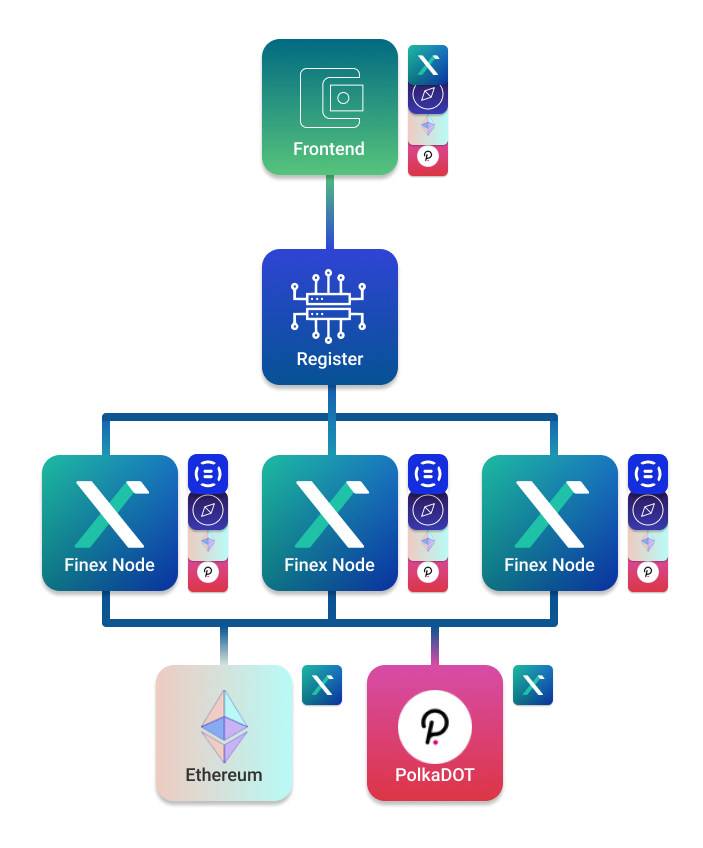
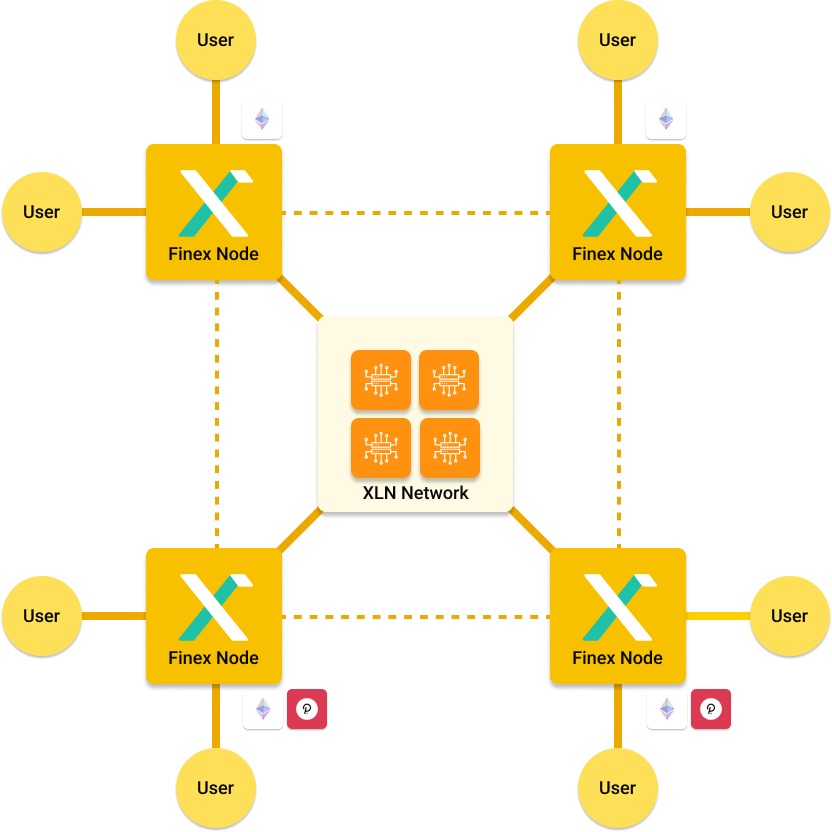
Polish after review (01.10) (#77)
* resize section main images to 65% on resolution >426 <996

* replace Architecture image

* add Linkedin links to headliner profiles

* improve code readability a bit

* remove underline from navbar Openware logo

* fix icon, fix roadmap padding

* rezise main images to 600px on tablet device

* update content text according to the latest Figma design

* fix vision link in footer

diff --git a/src/components/Team/members.js b/src/components/Team/members.js
@@ -1,6 +1,7 @@
 import React from 'react';
-import Instagram from './socials/Instagram';
-import Twitter from './socials/Twitter';
+import useBaseUrl from '@docusaurus/useBaseUrl';
+
+const LinkedinIcon = () => <img src={useBaseUrl('/img/icons/linkedin-rounded-grey.svg')} />;
 
 export const MEMBERS = [
     {
@@ -139,40 +140,39 @@ export const MEMBERS = [
 
 export const TEAM_HEADLINERS = [
     {
-        name: "Alexis Yellow",
+        name: "Alexis Sirkia",
         position: "Executive Chairman",
         description:
-            "Amet minim mollit non deserunt ullamco est sit aliqua dolor do amet sint. Velit officia consequat duis enim velit mollit. Exercitation veniam consequat sunt nostrud amet. Velit officia consequat duis enim velit mollit. Exercitation veniam consequat sunt nostrud amet.",
+            "Alexis is a strategist, innovator, engineer, and brilliant mentor with extensive result-driven project handling experience - from launching rockets to kickstarting flourishing business venues.",
         photo: "Alexis.jpg",
         socials: [
-            { img: <Twitter />, link: "https://twitter.com/AlexisYellow" },
+            { img: <LinkedinIcon />, link: "https://www.linkedin.com/in/sirkia/" },
         ],
     },
     {
         name: "Louis Bellet",
         position: "CEO",
         description:
-            "Amet minim mollit non deserunt ullamco est sit aliqua dolor do amet sint. Velit officia consequat duis enim velit mollit. Exercitation veniam consequat sunt nostrud amet. Velit officia consequat duis enim velit mollit. Exercitation veniam consequat sunt nostrud amet.",
+            "Louis is a genius system architect, avid entrepreneur, and experienced leader of IT projects from startup to enterprise-grade, implementing strategies and workflows that streamline business objectives.",
         photo: "Louis.png",
         socials: [
-            { img: <Instagram />, link: "https://instagram.com/crypto.kat" },
-            { img: <Twitter />, link: "" },
+            { img: <LinkedinIcon />, link: "https://www.linkedin.com/in/louisbellet/" },
         ],
     },
     {
         name: "Camille Meulien",
         position: "CTO - Architect",
         description:
-            "Nulla Lorem mollit cupidatat irure. Laborum magna nulla duis ullamco cillum dolor. Voluptate exercitation incididunt aliquip deserunt reprehenderit elit laborum. ",
+            "Camille is a master of Agile and Lean software development, High-Traffic and Big Data engineering guru, focused on aligning efficient technical solutions with business goals.",
         photo: "Camille.png",
-        socials: [{ img: <Twitter />, link: "" }],
+        socials: [{ img: <LinkedinIcon />, link: "https://www.linkedin.com/in/camillemeulien/" }],
     },
     {
         name: "Sergii Kashchenko",
         position: "COO",
         description:
-            "Aliqua id fugiat nostrud irure ex duis ea quis id quis ad et. Sunt qui esse pariatur duis deserunt mollit dolore cillum minim tempor enim. Elit aute irure tempor cupidatat incididunt sint deserunt ut voluptate aute id deserunt nisi.",
+            "Sergii is a technology adept and inspiring leader, delivering excellence in business workflows by highlighting and empowering talent to create a strong team culture.",
         photo: "Sergii.jpg",
-        socials: [{ img: <Twitter />, link: "" }],
+        socials: [{ img: <LinkedinIcon />, link: "https://www.linkedin.com/in/kashchenko/" }],
     },
 ];

diff --git a/src/components/HowItWorks/index.js b/src/components/HowItWorks/index.js
@@ -9,16 +9,23 @@ export default function HowItWorks() {
                 <div className="row">
                     <div className="col col--6">
                         <span className="highlight">Architecture</span>
-                        <h4 className="section-title">How it works?</h4>
+                        <h4 className="section-title">How does it work?</h4>
                         <p className="section-text--smaller subtitle-2-18-700">
-                            Our exchange is built on the Layer 3 scaling solution that utilizes state channels. That makes it possible to use high-performance centralized matching with trustless funds management. General process lifecycle:
+                            Yellow is built on the Layer-3 scaling solution that
+                            utilizes state channel technology. That makes it
+                            possible to use high-performance centralized
+                            matching with trustless funds management.
+                            <br />
+                            General process lifecycle:
                         </p>
+
                         <ul className="section-text subtitle-2-18-700 how-it-works__list">
                             <li>Create account</li>
                             <li>Open channel and Deposit</li>
                             <li>Trade and Transfer</li>
                             <li>Close channel and Withdraw</li>
                         </ul>
+
                         <Link
                             className="button button--outline button--secondary button--wide"
                             to="/docs/architecture">
@@ -29,7 +36,7 @@ export default function HowItWorks() {
                     </div>
 
                     <div className="col col--6">
-                        <img className="how-it-works__img-desktop" src={useBaseUrl('/img/components/how_it_works.png')} />
+                        <img className="how-it-works__img-desktop section__main-img" src={useBaseUrl('/img/components/how_it_works.png')} />
                         <img className="how-it-works__img-mobile" src={useBaseUrl('/img/components/how_it_works_mobile.png')} />
                     </div>
                 </div>

diff --git a/src/components/WhatsYellow/index.js b/src/components/WhatsYellow/index.js
@@ -4,27 +4,27 @@ import useBaseUrl from '@docusaurus/useBaseUrl';
 const blocks = [
     {
         src: '/img/icons/overview-1.svg',
-        text: 'A multi-asset spot trading exchange using OpenDAX, built using Open-Finance Protocol.',
+        text: 'Multi-asset spot trading exchange built with OpenDAX stack, based on Open-Finance Protocol.',
     },
     {
         src: '/img/icons/overview-2.svg',
-        text: 'A Layer-3 non-custodial exchange offering more transparency and security to the end-users.',
+        text: 'A Layer-3 non-custodial exchange offering unparalleled security and transparency for the traders.',
     },
     {
         src: '/img/icons/overview-3.svg',
-        text: 'Yellow platform gives its users access to High-Speed Trading due to the advantages of using the Finex engine on each market.',
+        text: 'Access to Ultra-High-Speed Trading due to the advantages of having Finex nodes on each market.',
     },
     {
         src: '/img/icons/overview-4.svg',
-        text: 'Our exchange will provide access to diverse assets. To do that we plan to use wrapped tokens managing them with state channels smart contracts.',
+        text: 'Wrapped tokens managed with state channel smart contracts to provide access to diverse assets.',
     },
     {
         src: '/img/icons/overview-5.svg',
-        text: 'Yellow is also offering compliance to most regulations using 3rd party KYC providers and Custodians without sharing sensitive data.',
+        text: 'Compliance with international regulations using 3rd party KYC Providers and Custodians without sharing sensitive data.',
     },
     {
         src: '/img/icons/overview-6.svg',
-        text: 'You can create simply various markets and trade on them on Yellow.',
+        text: 'Explore, create and host various markets to trade on Yellow.',
     },
 ];
 

diff --git a/src/components/Team/index.js b/src/components/Team/index.js
@@ -37,6 +37,14 @@ export default function Team() {
         setVisibleMembers(updatedVisibleMembers);
     }
 
+    const buildSocialIconsGroup = (socials) => (
+        <div className="icon__group">
+            {socials.map((s) => (
+                <Link key={s.link} to={s.link}>{s.img}</Link>
+            ))}
+        </div>
+    );
+
     return (
         <div className="section section__dark" id="team">
             <div className="container team">
@@ -49,18 +57,10 @@ export default function Team() {
                                 <img className="mb-24 team__headliner-img" src={buildImagePath(i.photo)} />
                                 <div className="space-between">
                                     <span className="h8">{i.name}</span>
-                                    {i.socials.length ? (
-                                        <div className="icon__group">
-                                            {i.socials.map((s, i) => (
-                                                <Link key={i.toString()} to={s.link}>
-                                                    {s.img}
-                                                </Link>
-                                            ))}
-                                        </div>
-                                    ) : null}
+                                    {i.socials.length && buildSocialIconsGroup(i.socials)}
                                 </div>
                                 <span className="body-1-16-700 yellow mb-12">{i.position}</span>
-                                <p className="body-1-16-400 grey">{i.description}</p>
+                                <p className="body-1-16-400 grey team__headliner-description">{i.description}</p>
                             </div>
                         ))}
                     </div>

diff --git a/src/components/Tokenomics/index.js b/src/components/Tokenomics/index.js
@@ -18,9 +18,10 @@ export default function Tokenomics() {
                             <p>
                                 Yellow (YEL) is a native token of the Yellow.org
                                 hybrid exchange. It uses a non-custodial
-                                solution from OpenDAX v4. Yellow token has the
-                                following utilities:
+                                solution based on OpenDAX v4 stack.
                             </p>
+
+                            <p>Yellow token has the following utilities:</p>
 
                             <ul className="tokenomics__utilities-list">
                                 <li>Trading fee discount</li>
@@ -28,11 +29,6 @@ export default function Tokenomics() {
                                 <li>Development governance</li>
                                 <li>Participation in WASM slots auctions</li>
                             </ul>
-
-                            <p>
-                                Token will be pre-minted and distributed based
-                                on the information presented on the pie chart.
-                            </p>
 
                             <div>
                                 <Link
@@ -49,7 +45,7 @@ export default function Tokenomics() {
 
                     <div className="col col--6">
                         <img
-                            className="tokenomics__img-desktop"
+                            className="tokenomics__img-desktop section__main-img"
                             src={useBaseUrl("/img/components/tokenomics_pie_chart.png")}
                         />
                         <img

diff --git a/src/components/Roadmap/index.js b/src/components/Roadmap/index.js
@@ -12,19 +12,18 @@ export default function Roadmap() {
                             <h4 className="section-title">Product first</h4>
                             <div className="roadmap-text">
                                 <p className="section-text subtitle-2-18-700">
-                                    Here you can witness our pending steps to the final moment of glory.
-                                    <br />
-                                    Get familiarized with our route and be ready to become our like-minded business partner.
+                                    Strategy and long-term planning steps to the future of digital exchange.
+                                    <br />Get familiarized with our route and don’t hesitate to become our like-minded strategic partner.
                                 </p>
                                 <p className="section-text--smaller subtitle-2-18-700">
-                                    Yellow.org team
+                                    Yellow Team
                                 </p>
                             </div>
                         </div>
                     </div>
 
                     <div className="col col--6">
-                        <img src={useBaseUrl('/img/components/roadmap.svg')} className="roadmap__img-desktop" />
+                        <img src={useBaseUrl('/img/components/roadmap.svg')} className="roadmap__img-desktop section__main-img" />
                         <img src={useBaseUrl('/img/components/roadmap_mobile.svg')} className="roadmap__img-mobile" />
                     </div>
                 </div>

diff --git a/src/components/XLN/index.js b/src/components/XLN/index.js
@@ -30,14 +30,14 @@ export default function XLN() {
             <div className="container xln">
                 <div className="row">
                     <div className="col col--6">
-                        <img src={useBaseUrl('/img/components/xln.png')} />
+                        <img className="section__main-img" src={useBaseUrl('/img/components/xln.png')} />
                     </div>
                     <div className="col col--6">
                         <span className="highlight">Features</span>
                         <h4 className="section-title">What is XLN?</h4>
                         <p className="section-text--smaller subtitle-2-18-600">
-                            XLN is a network of Finex nodes that use a unified communication protocol. The main target of the
-                            network is to interconnect different blockchains unlocking access to liquidity with the layer of
+                            XLN is a network of Finex nodes that talk using a unified communication protocol. The main target of
+                            the network is to interconnect different blockchains unlocking access to liquidity with the layer of
                             decentralized exchanges.
                         </p>
                         <div className="blocks">

diff --git a/src/components/OpenFinance/index.js b/src/components/OpenFinance/index.js
@@ -9,12 +9,12 @@ export default function OpenFinance() {
                 <div className="row section__center">
                     <h4 className="section-title">Open Finance Ecosystem</h4>
                     <p className="h8 section-text">
-                        We joined the Open Finance Ecosystem to supports
-                        initiatives of the new financial layer. The aim of this
-                        movement is to define a new communication standard for
-                        emerging financial services. Applying those standards in
-                        our product we want to make the financial system more
-                        inclusive and diversified.
+                        We joined the Open Finance Ecosystem to support
+                        initiatives of the new financial layer. The goal of Open
+                        Finance Protocol is to define a new communication
+                        standard for emerging financial services. Applying Open
+                        Finance standards in financial products makes the system
+                        more inclusive and diversified.
                     </p>
                     <div className="section__center-img">
                         <img src={useBaseUrl('/img/opendax.svg')} />

diff --git a/src/theme/Footer/index.js b/src/theme/Footer/index.js
@@ -90,7 +90,7 @@ function Footer() {
                                 </div>
                             )}
                             <p className={clsx('body-2-14-400 margin-bottom--md', styles.footerText)}>
-                                Yellow.org is a hybrid exchange that combines the benefits of centralized and decentralized worlds. Come and join the future of the financial system!
+                                Yellow is a hybrid Layer-3 digital exchange system based on technology that combines the best of centralized and decentralized worlds. Let’s build the future of finance together!
                             </p>
                             <div className={styles.footerSocials}>
                                 <Link to="https://www.reddit.com/r/yellow_defi/"><img src={useBaseUrl('/img/icons/reddit.svg')} loading="lazy" /></Link>

diff --git a/src/components/FeaturesOfYellow/index.js b/src/components/FeaturesOfYellow/index.js
@@ -6,7 +6,7 @@ const blocks = [
     {
         src: '/img/icons/features-1.png',
         title: 'Non-Custodial',
-        text: 'Transferring your assets to the Exchange is replaced with a Metamask connection. Your funds are secured using a multi-signature smart contract on the blockchain. You can fully audit the assets held by the exchange.',
+        text: 'Instead of transferring your assets to the Exchange, like old-school CEX, you enable a Metamask connection. Your funds are secured using a multi-signature smart contract on the blockchain. You can fully audit the assets held by the exchange anytime.',
         link: '/docs/smart-contracts',
         linkText: 'Explore State channels',
     },

diff --git a/src/components/Hero/index.js b/src/components/Hero/index.js
@@ -34,7 +34,7 @@ export default function Hero() {
                         </div>
                     </div>
                     <div className="col col--5 hero-img">
-                        <img src={useBaseUrl('/img/hero.png')} />
+                        <img className="section__main-img" src={useBaseUrl('/img/hero.png')} />
                     </div>
                 </div>
             </div>

diff --git a/src/components/Team/styles.scss b/src/components/Team/styles.scss
@@ -7,6 +7,10 @@
     border-radius: 8px;
   }
 
+  &__headliner-description {
+    margin-top: 8px;
+  }
+
   &__grid-xl {
     display: grid;
     grid-template-columns: repeat(4, 1fr);
@@ -19,7 +23,7 @@
       margin-bottom: 48px;
 
       .grid__item {
-        img {
+        & > img {
           width: 408px;
           height: auto;
           margin-left: auto;
